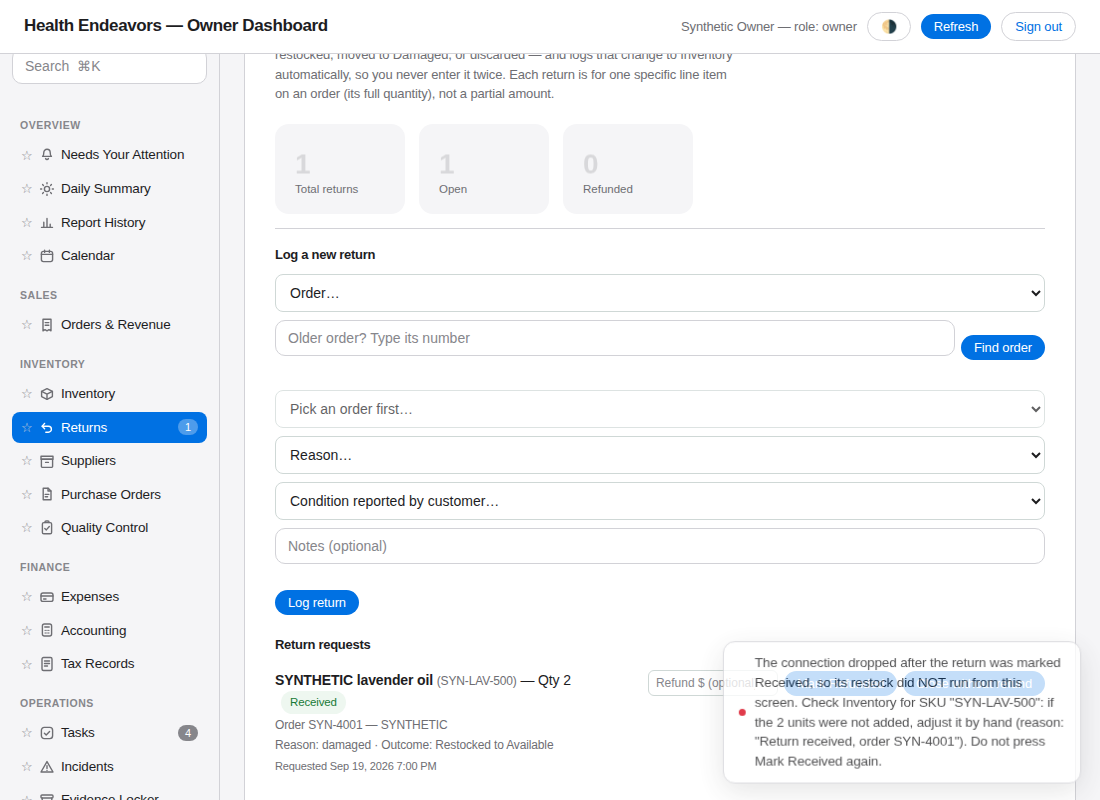
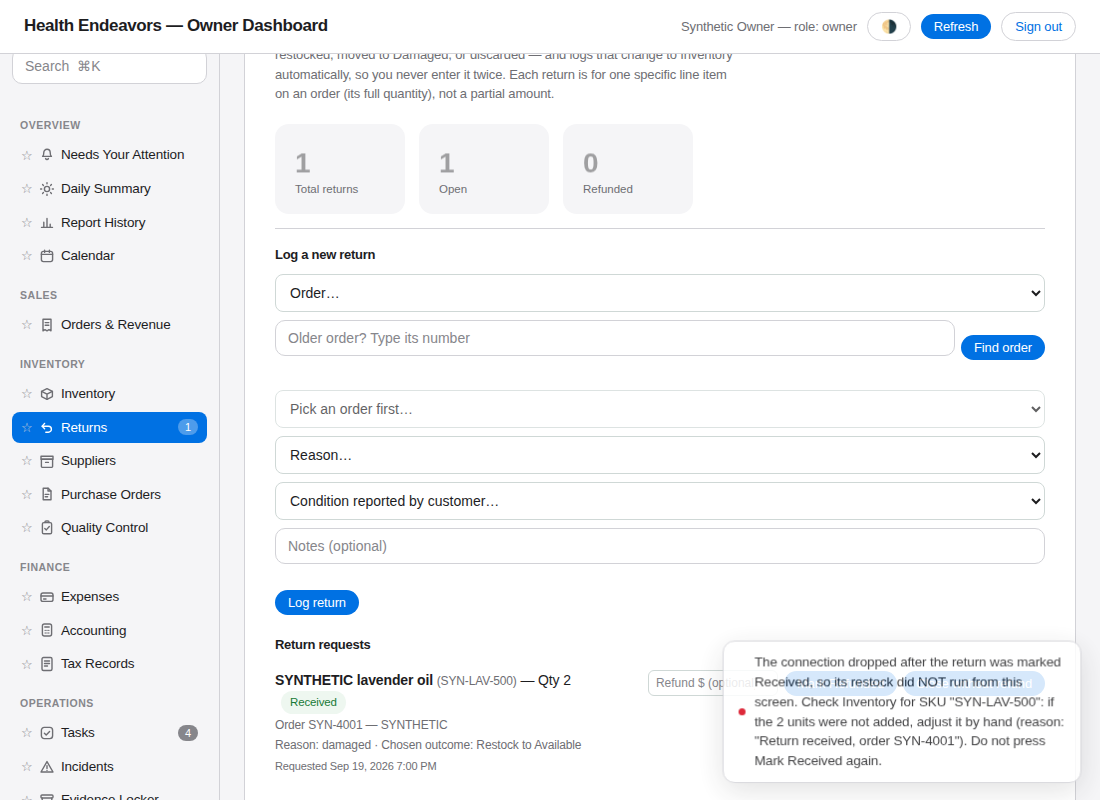
EXT11 report final evidence (freeze 32c05e2), screenshots + manifest
Claude-Session: https://claude.ai/code/session_019sfczssUCzczxoELEi6fFE

diff --git a/docs/ops/DEEP_PLATFORM_EXTENSION_11_2026-10-11.md b/docs/ops/DEEP_PLATFORM_EXTENSION_11_2026-10-11.md
@@ -70,19 +70,21 @@ New: `CURRENT_PLATFORM_STATE_EXT11` · `OWNER_UNBLOCK_CENTER_EXT11` · `PRODUCTI
 
 ## 6. Final evidence (all local, synthetic data; production not touched)
 
-Page code frozen at **`ba2b055`**: no page, helper or CSS change after it. Later commits change only tests, tools and docs.
+Page code frozen at **`32c05e2`** (final): no page, helper or CSS change after it; later commits change only tests and docs. The earlier freeze `ba2b055` was replaced after the screenshot review found X11-06 (one label).
 
 | Check | Result |
 |---|---|
-| Full suite (desktop 1100 + iPhone 390) on `13cea22` (= frozen page code) | **2,786 tests: 1,778 passed (including 8 expected failures), 6 failed, 0 flaky**, 1,002 skipped with a stated reason, **0 unexplained**. The 6: 3 generated write-path lists out of date (line numbers), 1 new test checking a history row too early (harness; reproduced and fixed), 1 search-palette speed budget (593 ms vs 250 ms under three parallel workers) and 1 session reload aborted by the browser; both passed when re-run alone and are in the ×3 run below. After the fixes in `199ed38` (tests and lists only): those specs 38/38 |
-| High-risk specs ×3 | HR_RESULT |
-| Page mutations | 146 earlier + **7 new EXT11 mutants: 7 / 7 caught** (MUT_RESULT) |
+| Full suite on `32c05e2` (desktop 1100 + iPhone 390) | **2,786 tests: 1,783 passed (including 8 expected failures), 1 failed, 0 flaky**, 1,002 skipped with a stated reason, **0 unexplained**. The 1: the 10,000-record search-speed test, whose page switch can wait past 20 s while 10,000 rows are drawn; it fails **1 in 5 on the EXT10 code too** (measured), so not an EXT11 regression; fixed in the test (`eb8f31b`: wait for the drawing first), then 8/8 |
+| Earlier full suite on `13cea22` (freeze `ba2b055`) | 2,786 tests: 1,778 passed, 6 failed (3 generated lists, 1 new-test timing reproduced and fixed, the search-speed test and one session reload under load; both passed alone and ×3), 0 flaky |
+| High-risk specs ×3 (45 files incl. every EXT11 spec, search-palette, session-failures) on `199ed38` | **2,733 passed, 0 failed, 0 flaky** |
+| After X11-06: returns / stock / System status / write-path / request-baseline specs ×3 on `eb8f31b` | **966 passed, 0 failed** |
+| Page mutations | **153 / 153 caught** (full set on `199ed38`) + the X11-06 mutant on `32c05e2` = **154 / 154** |
 | SQL mutations | **13 / 13 caught** |
 | Local database tests (re-run; no SQL changed in EXT11) | install package 61/61 · PO forced orderings 0 guarded failures · browser-path races 0/0 · request keys 23/23 · reconciliation 24/24 · Query F 33/33 · restore drill 6/6 · stock switches 23/23 · Query G 11/11 · integrity rules 17/17 · nightly schedule 12/12 · request-key switch 10/10 · Home results 25/25 · 50k performance 10/10 · drift 27/27 |
 | Stress / random | 5 runs, 0 failed · seed 909 × 40 rounds: 0 failing, 0 deadlocks |
 | R1–R5 fingerprint | `3df2bf7a07b451f12f9359ceca1c85df` (unchanged) |
 | Secret scan (`56a927c..HEAD`) | clean: no keys, tokens, private keys, real e-mails or model identifiers |
-| Screenshots | SHOTS_RESULT |
+| Screenshots | 8 in `design-review/dashboard-extension-11-2026-10-11/` (`MANIFEST.md`), captured on `32c05e2`, reviewed by eye (the review found X11-06) |
 | `main` | `d3db7bc`, unchanged; nothing merged or deployed |
 
 ### What these results do NOT show
@@ -91,4 +93,5 @@ Local SQL tests are not a production install. Prepared RPCs are not installed. E
 ### Lessons recorded
 - Regenerate the write-path lists after the **last** page change, not an earlier one.
 - A test that waits for one write must not assume the next write has landed.
-- A speed budget measured under three parallel workers needs a solo re-run before it is called a regression.
+- A speed budget measured under three parallel workers needs a solo re-run, and a run on the previous code, before it is called a regression.
+- Review the final screenshots before freezing (found X10-24 in EXT10 and X11-06 here).

diff --git a/design-review/dashboard-extension-11-2026-10-11/MANIFEST.md b/design-review/dashboard-extension-11-2026-10-11/MANIFEST.md
@@ -1,0 +1,14 @@
+# Screenshots: dashboard extension 11 (2026-10-11)
+
+Captured with `SHOT_SPEC=capture-screenshots-ext11 npx playwright test -c tests/tools/screenshots.config.js` on branch `claude/platform-ext11-final-readiness-2026-10-11`. Page code frozen at **`32c05e2`**. **Not merged, not deployed.** Synthetic data only (test mock); no production system or customer record used. Widths 1100 / 390; Chromium only (not a real iPhone).
+
+| File | Page / state | Width | Synthetic | Production |
+|---|---|---|---|---|
+| `2026-10-11_ext11_01-system-status-nothing-installed_1100.png` | System status as it will look right after the merge, before any SQL: every step "not installed", switches all OFF | 1100 | yes | no |
+| `2026-10-11_ext11_01-system-status-nothing-installed_390.png` | System status as it will look right after the merge, before any SQL: every step "not installed", switches all OFF | 390 | yes | no |
+| `2026-10-11_ext11_02-system-status-switch-problem_1100.png` | System status when a switch is ON without its database step: PROBLEM names it | 1100 | yes | no |
+| `2026-10-11_ext11_02-system-status-switch-problem_390.png` | System status when a switch is ON without its database step: PROBLEM names it | 390 | yes | no |
+| `2026-10-11_ext11_03-home-revenue-missing-total_1100.png` | Home: today's revenue says an order without a total is not counted (X11-01) | 1100 | yes | no |
+| `2026-10-11_ext11_03-home-revenue-missing-total_390.png` | Home: today's revenue says an order without a total is not counted (X11-01) | 390 | yes | no |
+| `2026-10-11_ext11_04-return-lost-connection-saved_1100.png` | Returns: lost connection after the return was saved; the restock did NOT run; row says "Chosen outcome" (X11-02, X11-06) | 1100 | yes | no |
+| `2026-10-11_ext11_04-return-lost-connection-saved_390.png` | Returns: lost connection after the return was saved; the restock did NOT run; row says "Chosen outcome" (X11-02, X11-06) | 390 | yes | no |

diff --git a/docs/ops/CURRENT_PLATFORM_STATE_EXT11.md b/docs/ops/CURRENT_PLATFORM_STATE_EXT11.md
@@ -39,7 +39,7 @@ All new database-dependent features stay **off** until Stas installs the matchin
 
 | Area | State |
 |---|---|
-| Dashboard pages and workflows | IMPLEMENTED IN BRANCH, TESTED LOCALLY (full suite on the frozen commit: report §6); NOT DEPLOYED |
+| Dashboard pages and workflows | IMPLEMENTED IN BRANCH, TESTED LOCALLY (full suite on the frozen commit `32c05e2`: report §6); NOT DEPLOYED |
 | Merge before any SQL | TESTED LOCALLY with a fixture that answers like today's production (`merge-without-sql-ext11`) |
 | Stock all-or-nothing (R1–R5) | SQL TESTED LOCALLY, READY FOR OWNER DEPLOYMENT; switches OFF; NOT DEPLOYED |
 | Duplicate creates | request keys on 18 create paths behind `request_keys` (OFF); drafts 19 + 27 NOT INSTALLED |
